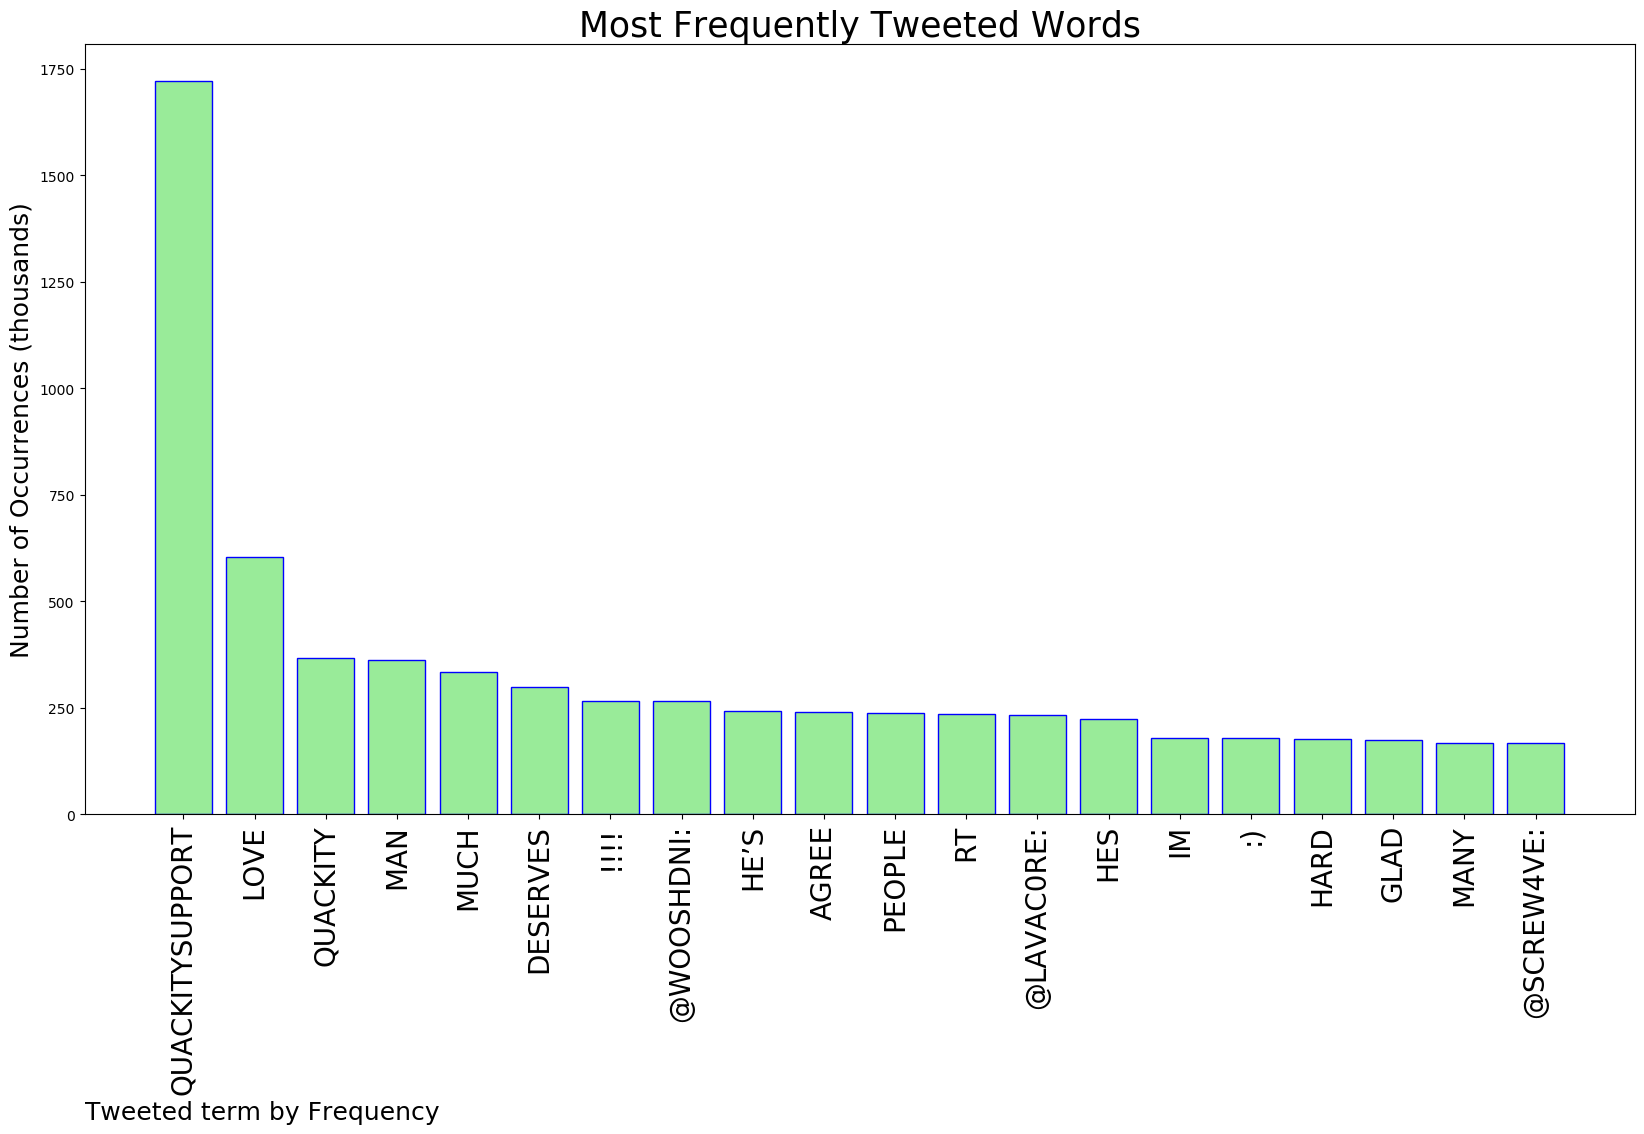
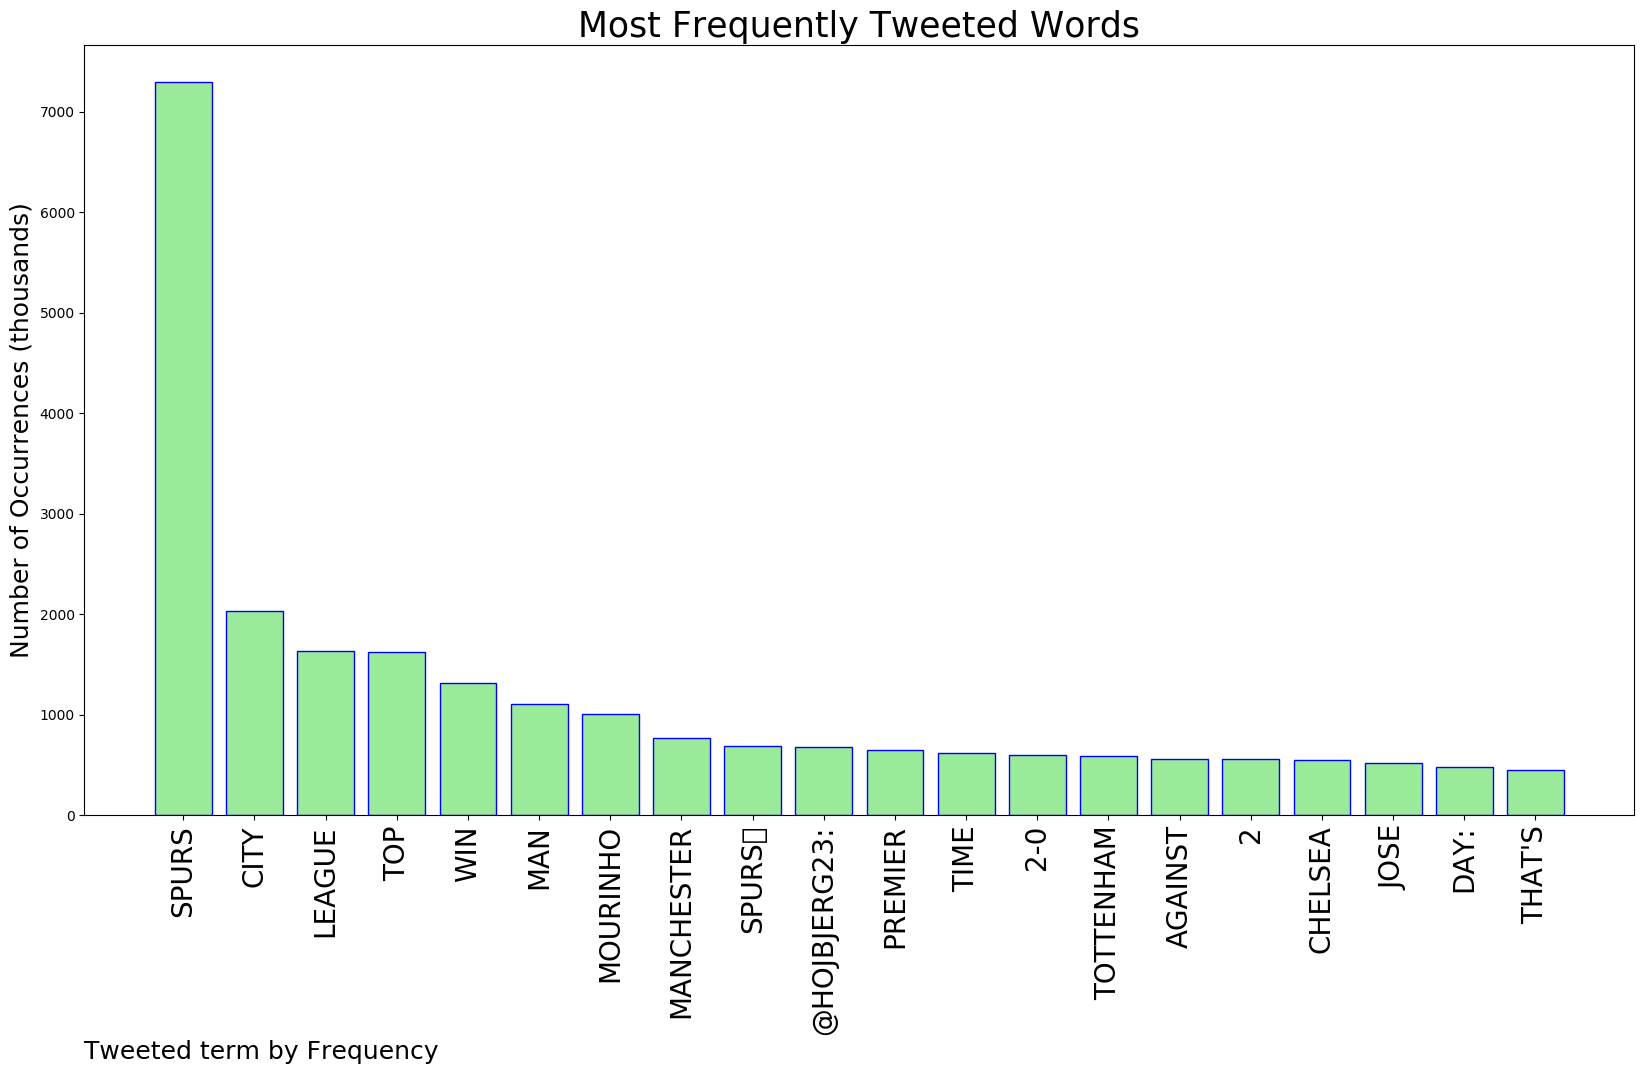
Updating with latest report

diff --git a/README.md b/README.md
@@ -1,5 +1,5 @@
 # MURCHIE85 TWITTER PROCESSING 
-&#x1F34E; **TOPIC = "#quackitysupport"**
+&#x1F34E; **TOPIC = "Spurs"**
 
 ## AUTOMATED RESEARCH SUMMARY
 
@@ -15,22 +15,22 @@
 
 |                **Sample-Tweets**        |
 | :-------------: |
-| RT @LAVAC0RE: rt if you agree #quackitysupport https://t.co/N8RSOCn0cY |
-| #quackitysupport 10/10 would much when bored |
-| RT @wooshdni: THIS !!!! #quackitysupport https://t.co/CrPCUczsIK |
+| RT @hojbjerg23: THIS IS SPURS🔥 https://t.co/U24tgLaQDv |
+| RT @LastWordOnSpurs: 🇵🇹 One year since Jose Mourinho took charge of Tottenham Hotspur.🕵 Andy Gray hails the Portuguese coach and looks a… |
+| Spurs would be shite without son (cough) @joseph_lad |
 
-The most popular user is: **zuxyboiii**
-<div class="alert alert-block alert-danger"> RT @wooshdni: THIS !!!! #quackitysupport https://t.co/CrPCUczsIK</div>
+The most popular user is: **spurs_silver**
+<div class="alert alert-block alert-danger"> RT @realDonaldTrump: Big voter fraud information coming out concerning Georgia. Stay tuned!</div>
 
 ## RELATED METRICS<br>
 | Metric | Value |
 | ------------- | ------------- |
-| #1 Most tweeted to  | **wooshdni** |
-| #2 Most tweeted to  | **LAVAC0RE** |
-| #3 Most tweeted to  | **SCREW4VE** |
-| NewProfiles (less than 10 days) | 4.71%  |
-| Tweeters with < 10 followers  | 13.69%|
-| Tweeters with > 1000000 followers  | 0.0%  |
+| #1 Most tweeted to  | **hojbjerg23** |
+| #2 Most tweeted to  | **brfootball** |
+| #3 Most tweeted to  | **the_pieface** |
+| NewProfiles (less than 10 days) | 0.6%  |
+| Tweeters with < 10 followers  | 4.0%|
+| Tweeters with > 1000000 followers  | 0.13%  |
 
 
 
@@ -39,11 +39,11 @@ The most popular user is: **zuxyboiii**
 
 | Popularity Rank  | Term |
 | ------------- | ------------- |
-| first  | **QUACKITYSUPPORT**  |
-| second  | **LOVE**  |
-| third  | **QUACKITY** |
-| fourth  | **MAN**  |
-| fifth  | **MUCH**  |
+| first  | **SPURS**  |
+| second  | **CITY**  |
+| third  | **LEAGUE** |
+| fourth  | **TOP**  |
+| fifth  | **WIN**  |
 
 
 ## Twitter Bio Analysis![image](BIO.png)
@@ -54,13 +54,13 @@ VIEWS WERE : **SUBJECTIVE**  (33.33%) & **NEGATIVELY-SUBJECTIVE** (20.0%) **OBJE
 ### TWEET SAMPLE 
 | Random value picked from array |
 | ------------- |
-|RT @sootfacts: ok good night ESPECIALLY to him #quackitysupport #weloveyouquackity https://t.co/azckmEle3F |
+|RT @5liveSport: "I'm gonna say it...Spurs will win the Premier League."Mystic M̵e̵g̵ @RobbieSavage8 has spoken 🔮Are #THFC going to wi… |
 
 ### MOST RETWEETED 
 
-| The most retweeted user is: **zuxyboiii**  |
+| The most retweeted user is: **spurs_silver**  |
 | ------------- |
-| RT @wooshdni: THIS !!!! #quackitysupport https://t.co/CrPCUczsIK |
+| RT @realDonaldTrump: Big voter fraud information coming out concerning Georgia. Stay tuned! |
 
 ### CONCLUSION & EXTERNAL ANALYSIS
 
